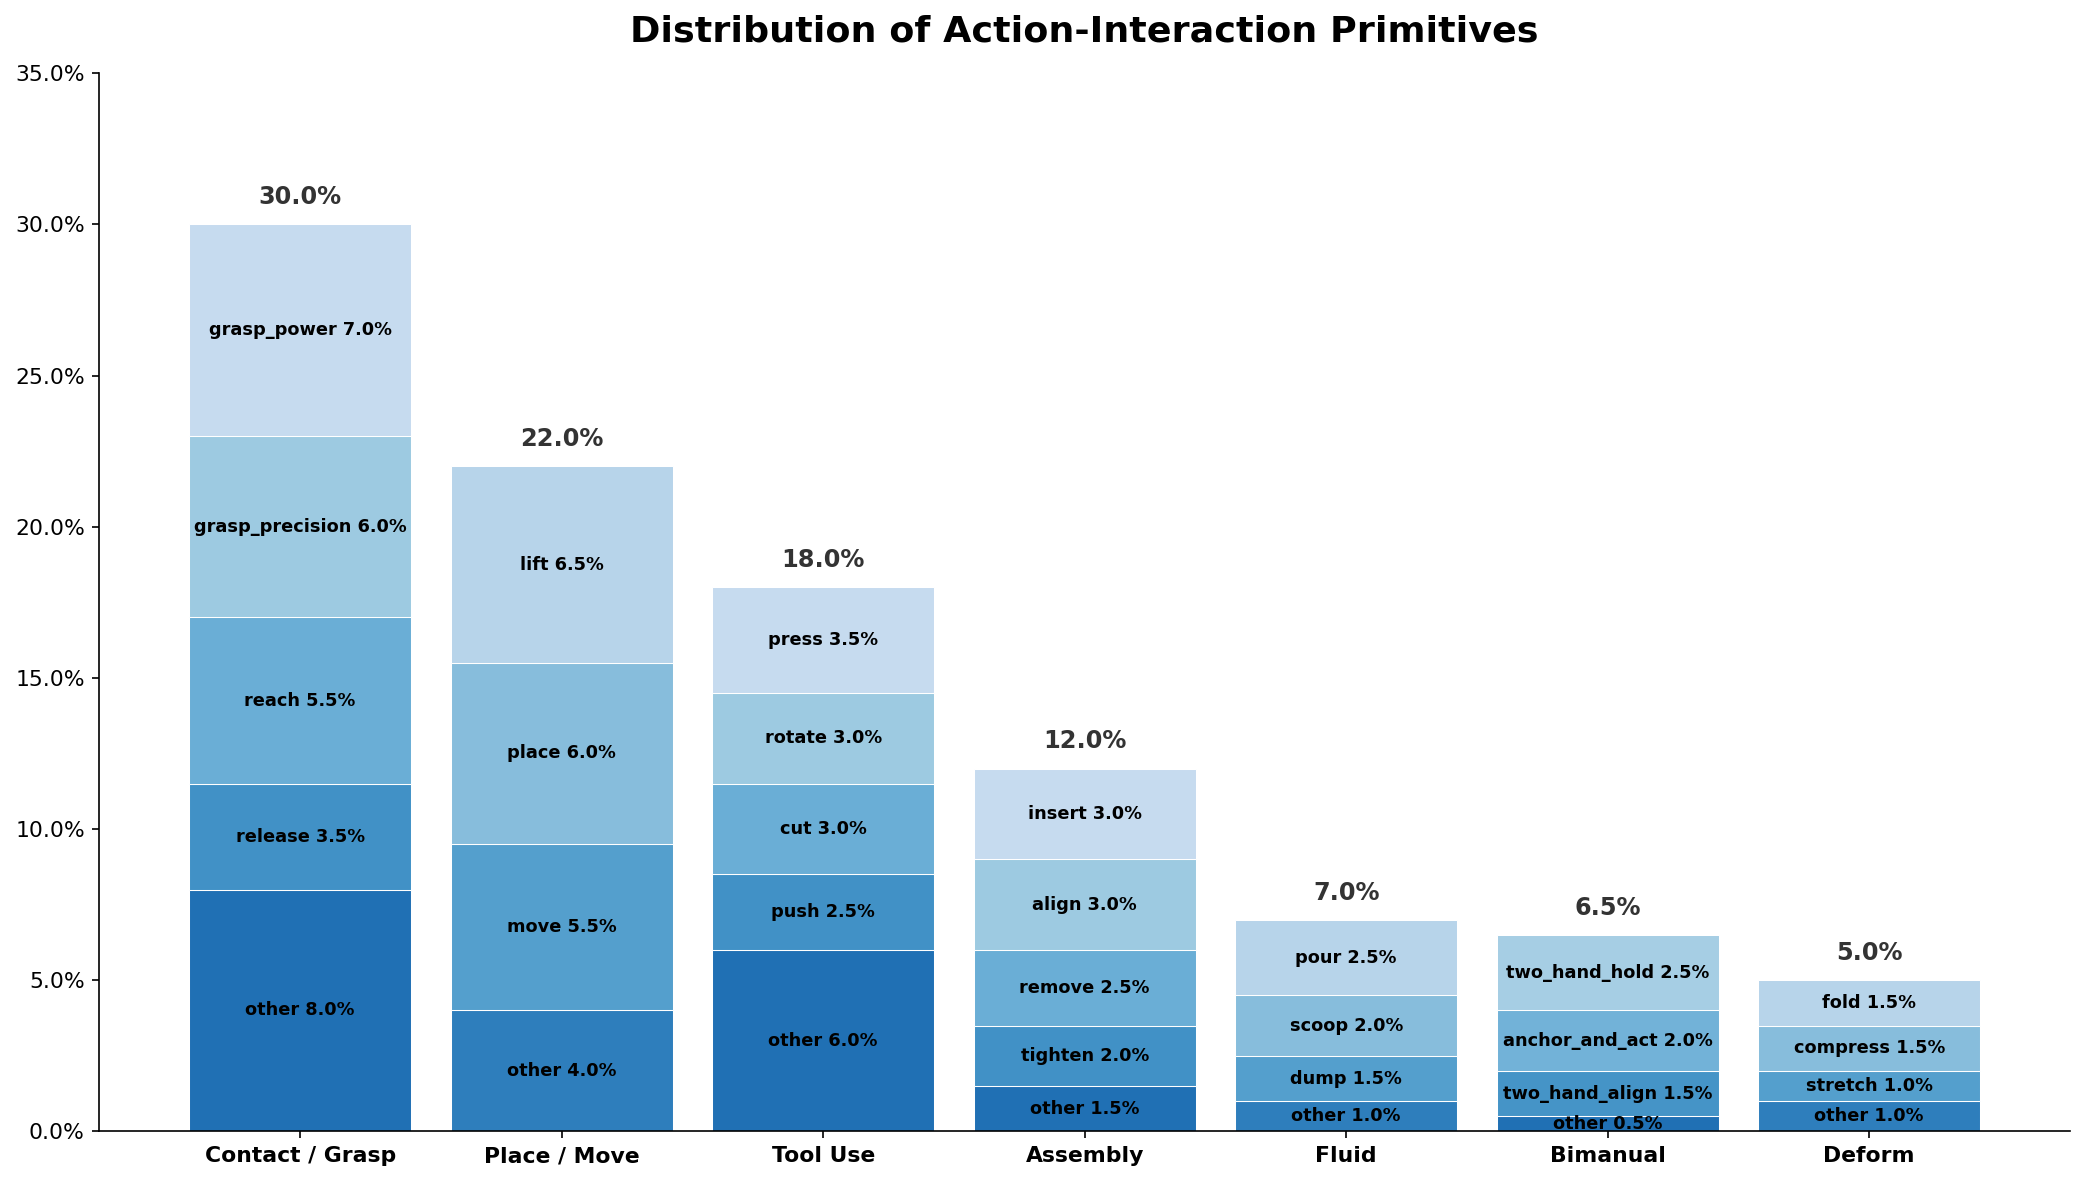
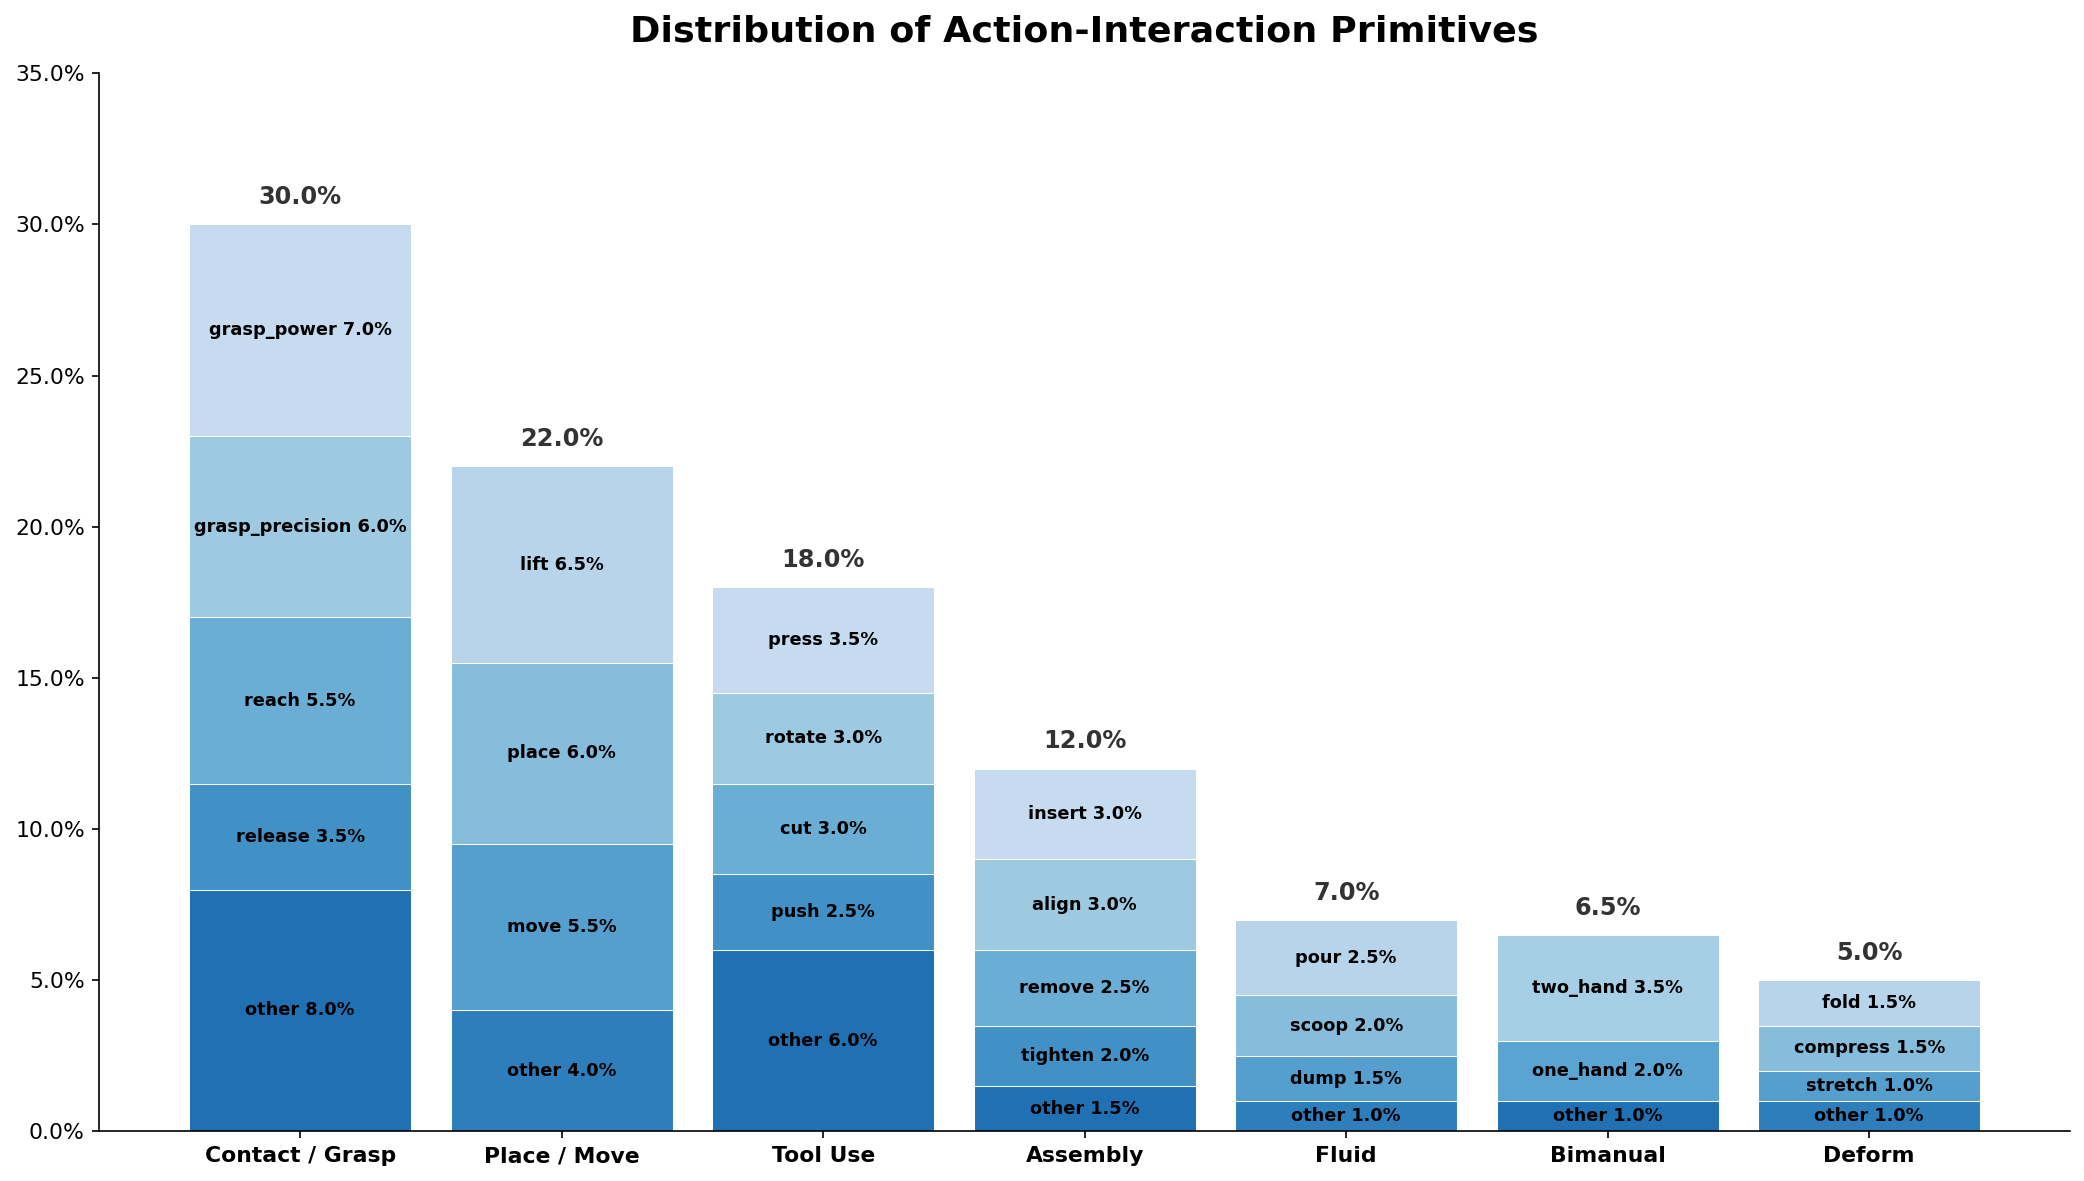
Update Bimanual category data: two_hand 3.5%, one_hand 2.0%, other 1.0%
https://claude.ai/code/session_018xFGws4xpUTXJntMBVQsZP

Changed region(s): [[0.7174, 0.823, 0.8421, 0.9754]]

diff --git a/action_primitives_histogram.py b/action_primitives_histogram.py
@@ -38,10 +38,9 @@ data = {
         ("other", 1.0),
     ],
     "Bimanual": [
-        ("two_hand_hold", 2.5),
-        ("anchor_and_act", 2.0),
-        ("two_hand_align", 1.5),
-        ("other", 0.5),
+        ("two_hand", 3.5),
+        ("one_hand", 2.0),
+        ("other", 1.0),
     ],
     "Deform": [
         ("fold", 1.5),
